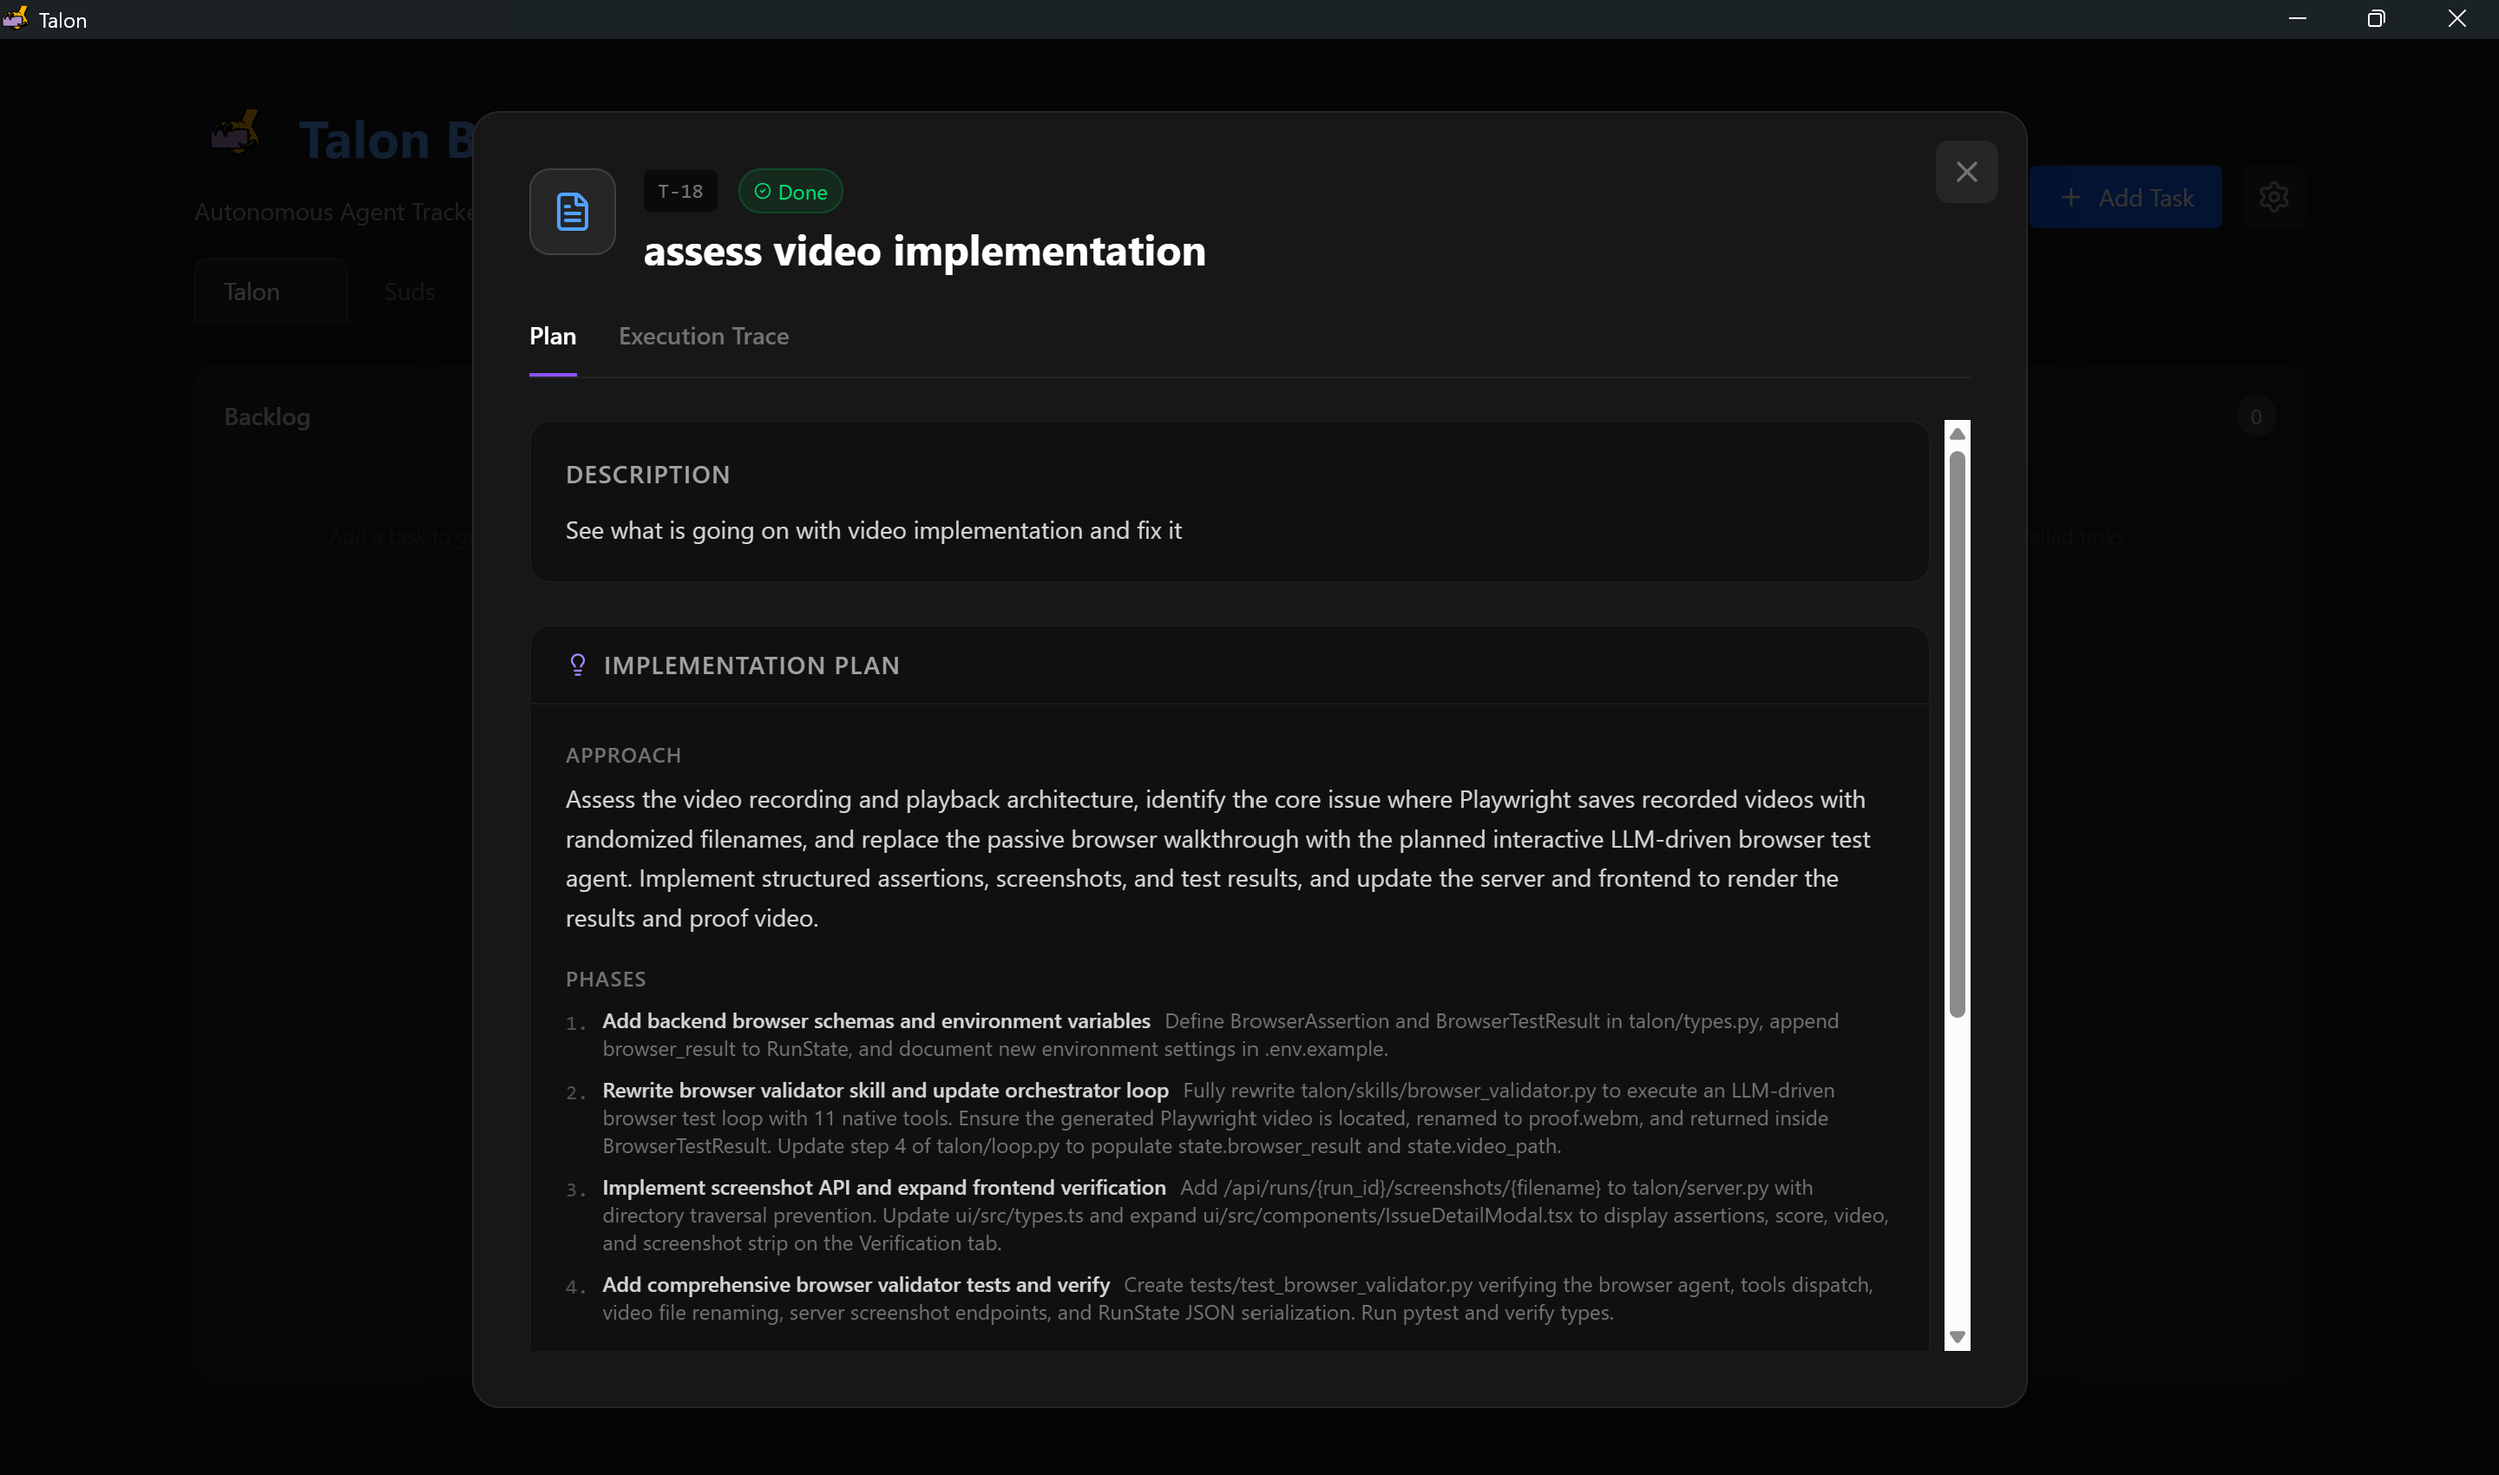
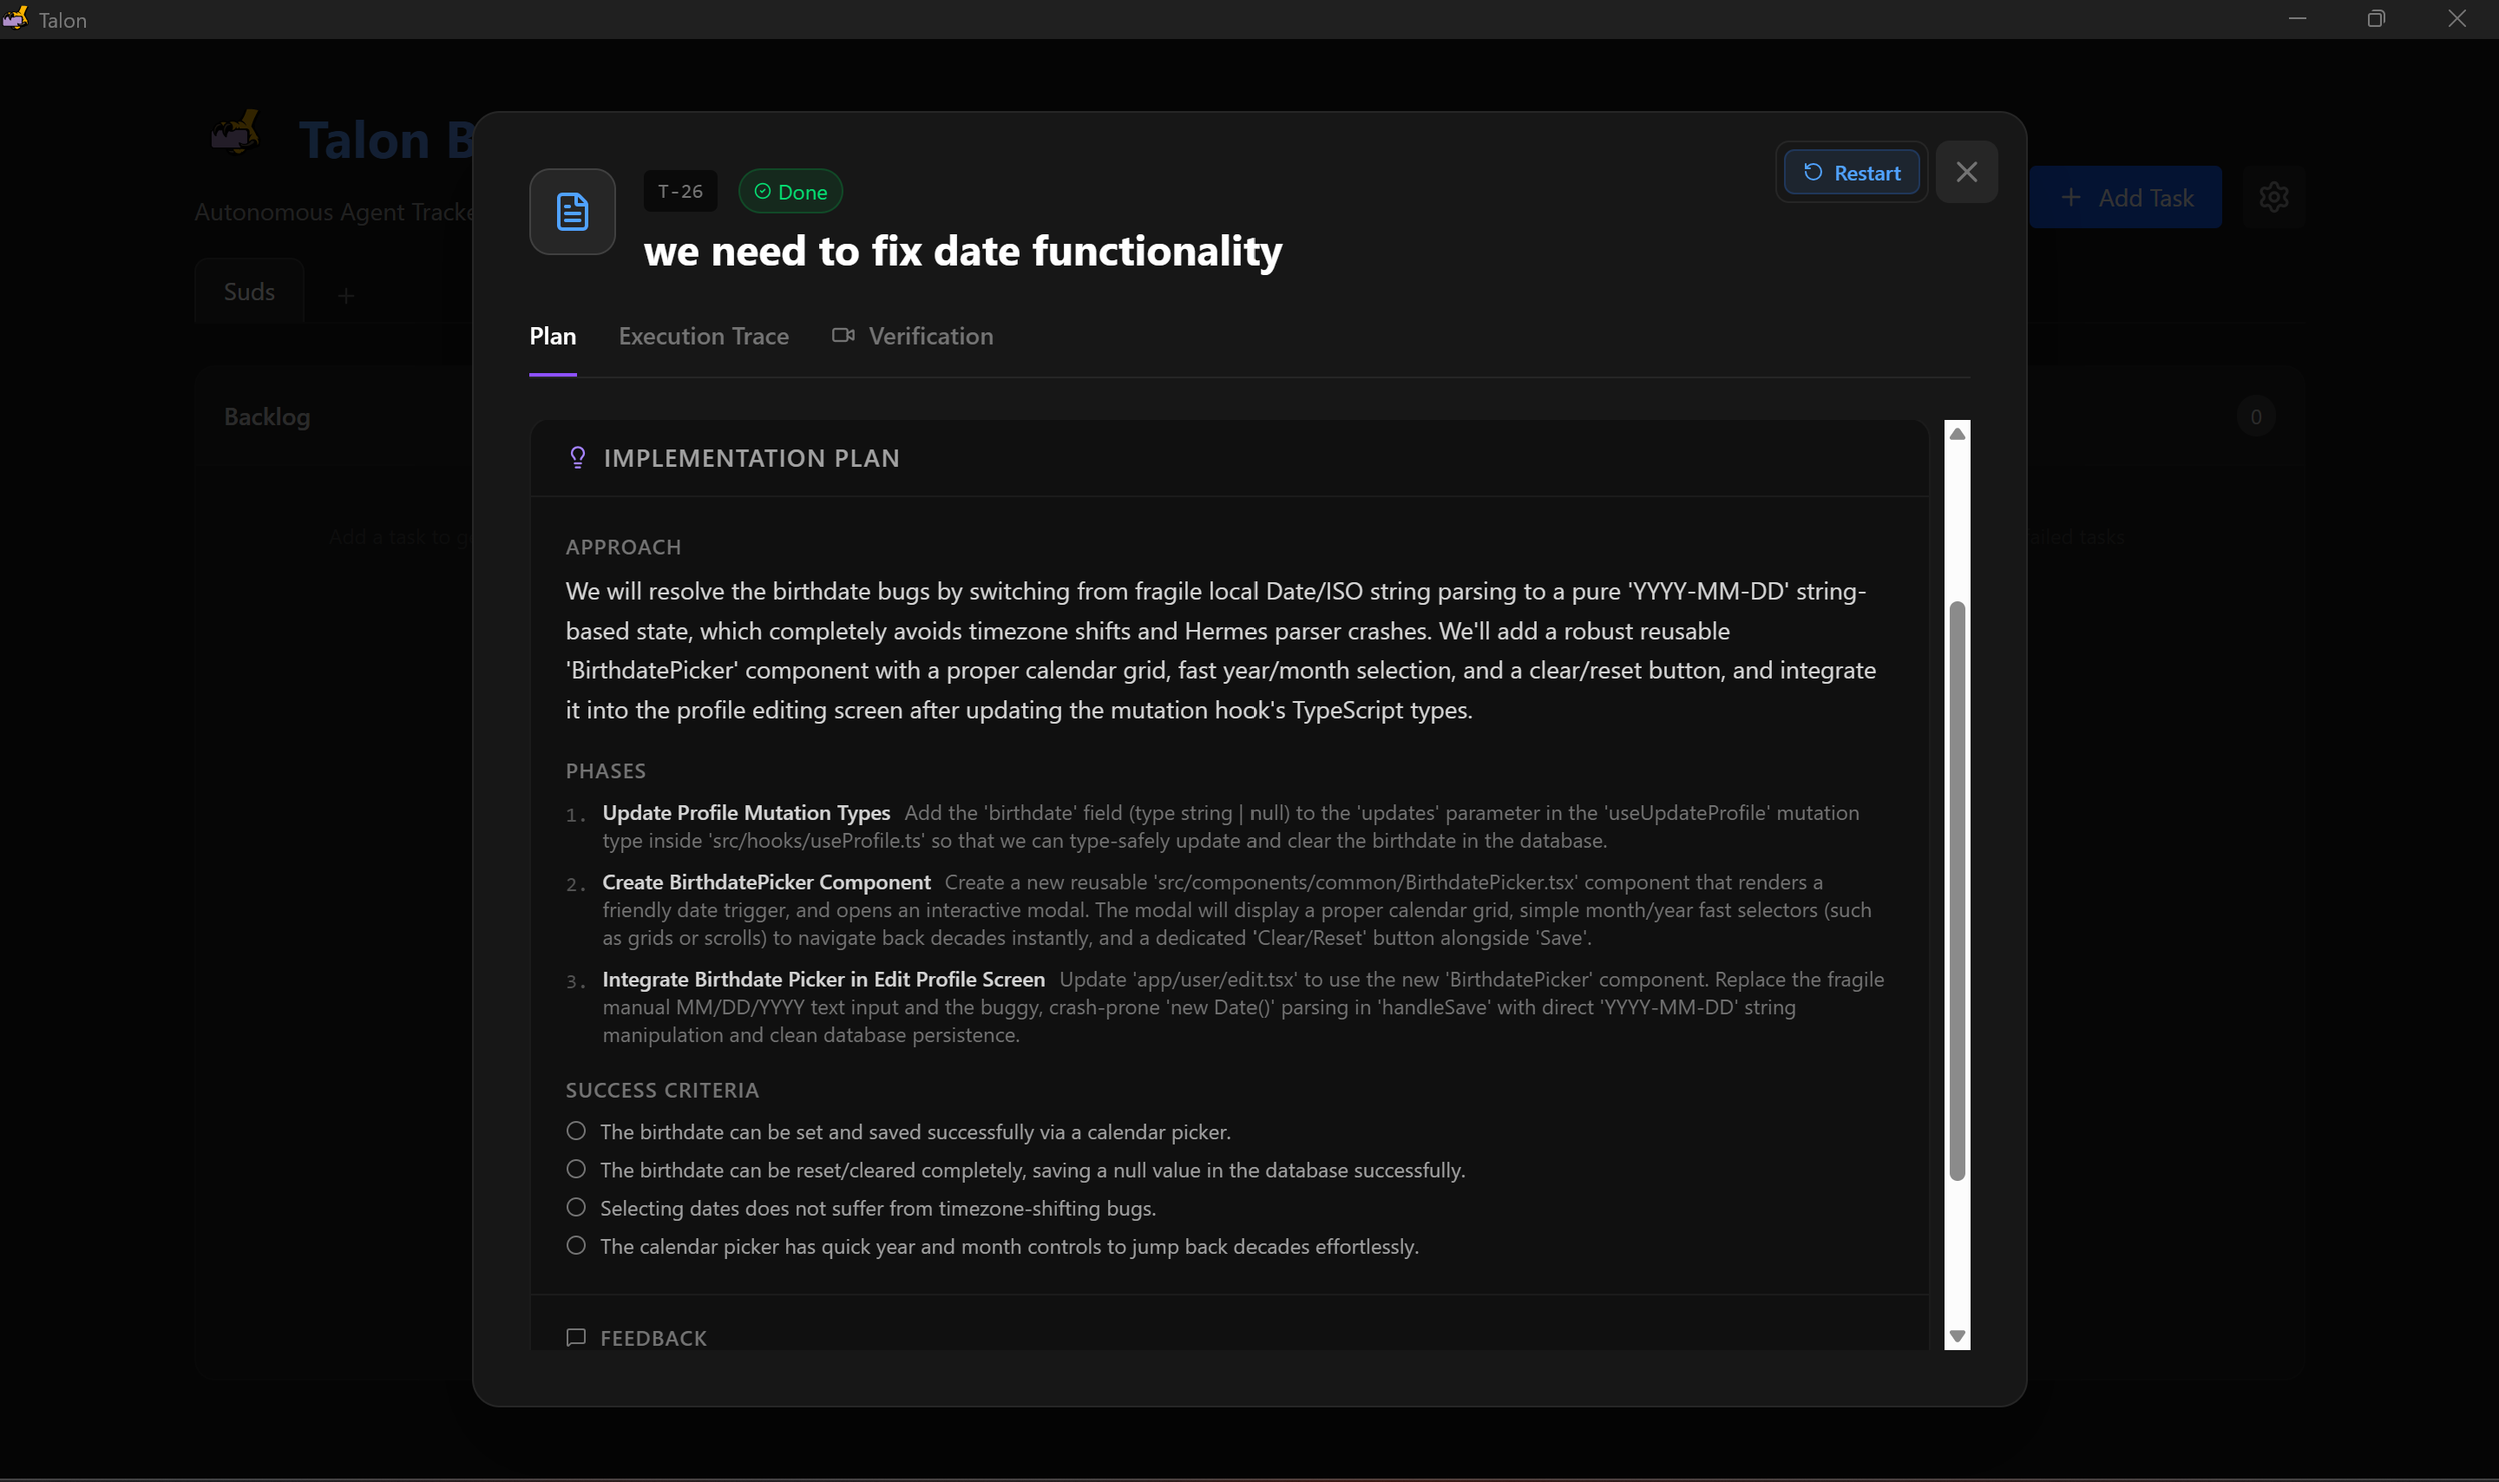
update screenshots and readme

diff --git a/README.md b/README.md
@@ -21,6 +21,10 @@ Windows `.exe` · macOS `.dmg` · Linux `.AppImage`
 |:---:|:---:|
 | ![Execution trace with iterations](ui/public/talon-screenshot3.png) | ![Model & workspace settings](ui/public/talon-screenshot4.png) |
 
+| Video verification | Environment config |
+|:---:|:---:|
+| ![Playwright video walkthrough](ui/public/talon-screenshot5.png) | ![Environment & credentials settings](ui/public/talon-screenshot6.png) |
+
 ---
 
 ## How it works
@@ -43,9 +47,6 @@ reviewer            Reads files, runs tests, checks every success criterion; pas
  ├─ pass ─────────► pr-creator         Commits changes, pushes branch, opens GitHub PR
  │                       │
  │                       ▼
- │                  browser-validator  Records a Playwright screenshot/video walkthrough
- │                       │
- │                       ▼
  │                  board-updater      Posts result to Linear / GitHub Projects
  │
  └─ fail ─────────► refiner           Synthesises blocking issues → action plan
@@ -55,17 +56,17 @@ reviewer            Reads files, runs tests, checks every success criterion; pas
 
 ### Agent roles
 
-| Role | What it does |
-|------|-------------|
-| **Planner** | Explores the workspace with read-only tools, then outputs a structured multi-phase plan |
-| **Task Executor** | Iterates phases sequentially; within each phase runs up to 7 sub-agents concurrently |
-| **Sub-agents** | Each acts as an independent developer with read/write/shell tool access in an isolated workspace |
-| **Workspace Cleaner** | LLM-assisted post-run cleanup: removes temp files, appends env files to `.gitignore` |
-| **Reviewer** | Inspects modified files, runs test suites, evaluates against every success criterion |
-| **Refiner** | Analyzes reviewer feedback and produces a revised action plan for the next iteration |
-| **PR Creator** | After a passing run: commits changes, pushes an agent branch, opens a GitHub PR |
-| **Browser Validator** | Playwright session: navigates the app, takes screenshots, records a `.webm` walkthrough |
-| **Board Updater** | Posts run summaries and video links to Linear or GitHub Projects |
+| Role | Model role | What it does |
+|------|-----------|-------------|
+| **Planner** | `PLANNER_MODEL` | Explores the workspace with read-only tools, then outputs a structured multi-phase plan |
+| **Task Executor** | `ORCHESTRATOR_MODEL` | Decomposes the plan into phases and coordinates parallel sub-agents within each phase |
+| **Sub-agents** | `SUBAGENT_MODEL` | Each acts as an independent developer with read/write/shell tool access in an isolated workspace |
+| **Workspace Cleaner** | `REFINER_MODEL` | LLM-assisted post-run cleanup: removes temp files, appends env files to `.gitignore` |
+| **Reviewer** | `REVIEWER_MODEL` | Inspects modified files, runs test suites, evaluates against every success criterion |
+| **Refiner** | `REFINER_MODEL` | Analyzes reviewer feedback and produces a revised action plan for the next iteration |
+| **PR Creator** | — | After a passing run: commits changes, pushes an agent branch, opens a GitHub PR |
+| **Browser Validator** | `REVIEWER_MODEL` | On-demand AI-driven browser agent (browser-use): navigates the app, records a `.webm` walkthrough, triggered from the Verification tab |
+| **Board Updater** | — | Posts run summaries to Linear or GitHub Projects |
 
 ---
 
@@ -191,9 +192,10 @@ AGENT_MODEL=gemini/gemini-flash-latest
 
 **Per-role override** (full control):
 ```bash
-ORCHESTRATOR_MODEL=anthropic/claude-opus-4-7    # reasoning-heavy
+PLANNER_MODEL=anthropic/claude-sonnet-4-6       # workspace exploration + plan
+ORCHESTRATOR_MODEL=openai/o3                    # goal decomposition, reasoning-heavy
 SUBAGENT_MODEL=anthropic/claude-sonnet-4-6      # code writing
-REVIEWER_MODEL=anthropic/claude-opus-4-7        # strict quality gate
+REVIEWER_MODEL=anthropic/claude-sonnet-4-6      # quality gate
 REFINER_MODEL=anthropic/claude-sonnet-4-6       # synthesis
 ```
 
@@ -201,10 +203,11 @@ Auto-selection priority per role (first available provider wins):
 
 | Role | Prefers |
 |:---|:---|
-| `orchestrator` | Opus → o3 → Gemini Pro → Sonnet |
-| `subagent` | Sonnet → GPT-4o → Gemini Pro → Flash |
-| `reviewer` | Opus → o3 → Gemini Pro → Sonnet |
-| `refiner` | Sonnet → Flash → GPT-4o → Haiku |
+| `planner` | Sonnet → GPT-4o → Flash |
+| `orchestrator` | o3 → Sonnet → Flash → GPT-4o |
+| `subagent` | Sonnet → GPT-4o → Flash → Haiku |
+| `reviewer` | Sonnet → o3 → GPT-4o → Flash |
+| `refiner` | Sonnet → Flash → GPT-4o |
 
 See `.env.example` for the full list of variables (run limits, workspace paths, webhook secrets, etc.).
 
@@ -239,6 +242,24 @@ POST /webhook/github
 ---
 
 ## Changelog
+
+### 0.7.0
+
+**Browser-use AI validator** — Replaced passive Playwright screenshotter with an AI-driven `browser-use` agent that follows goal-specific navigation steps, interacts with the app, and records a `.webm` walkthrough with annotated captions. Visible in the new **Verification** tab on every completed issue.
+
+**GIF export** — The recorded walkthrough can be downloaded as an animated GIF directly from the Verification tab.
+
+**Environment settings tab** — A new **Environment** tab in Settings lets you paste or upload a `.env` file that is injected into the dev-server subprocess during browser validation. Supports test account credentials (username/email + password) and an optional Netscape/JSON cookie file, so the browser agent can sign in automatically.
+
+**Token & cost tracking** — Each run now accumulates input/output token counts and estimated cost; totals are displayed live in the execution trace panel.
+
+**Pause / resume (stable)** — `talon pause` / `talon resume` and their API counterparts are now fully stable across the Electron desktop app.
+
+**Server refactor** — `server.py` split into a `talon/routers/` package; `App.tsx` and `IssueDetailModal.tsx` decomposed into focused submodules.
+
+**Test suite fixes** — Resolved 16 test failures across config, tools, and webhook tests; CI is green.
+
+---
 
 ### 0.6.0
 
